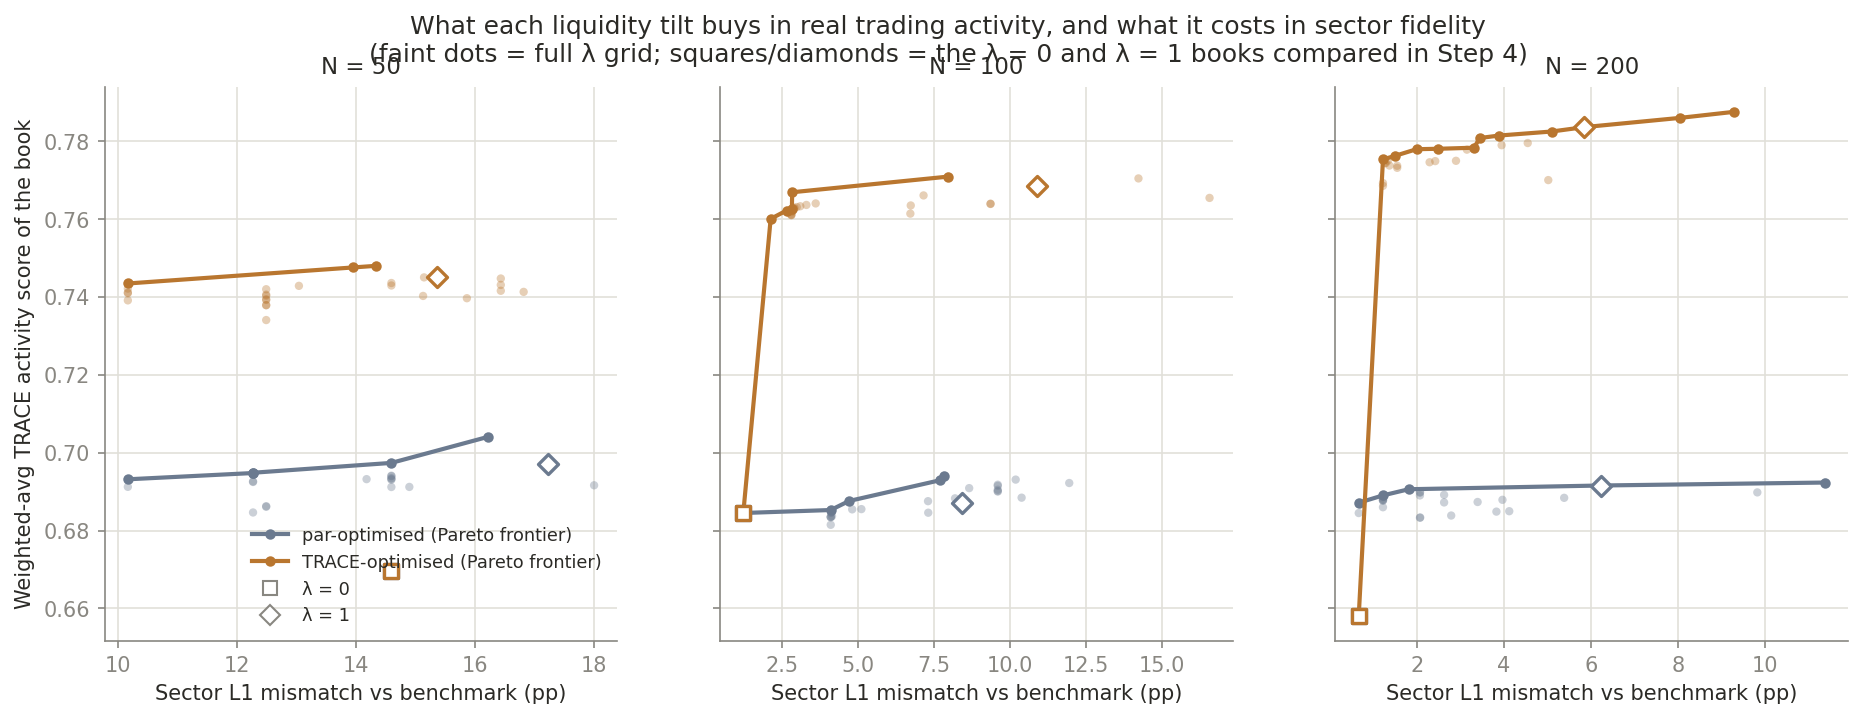
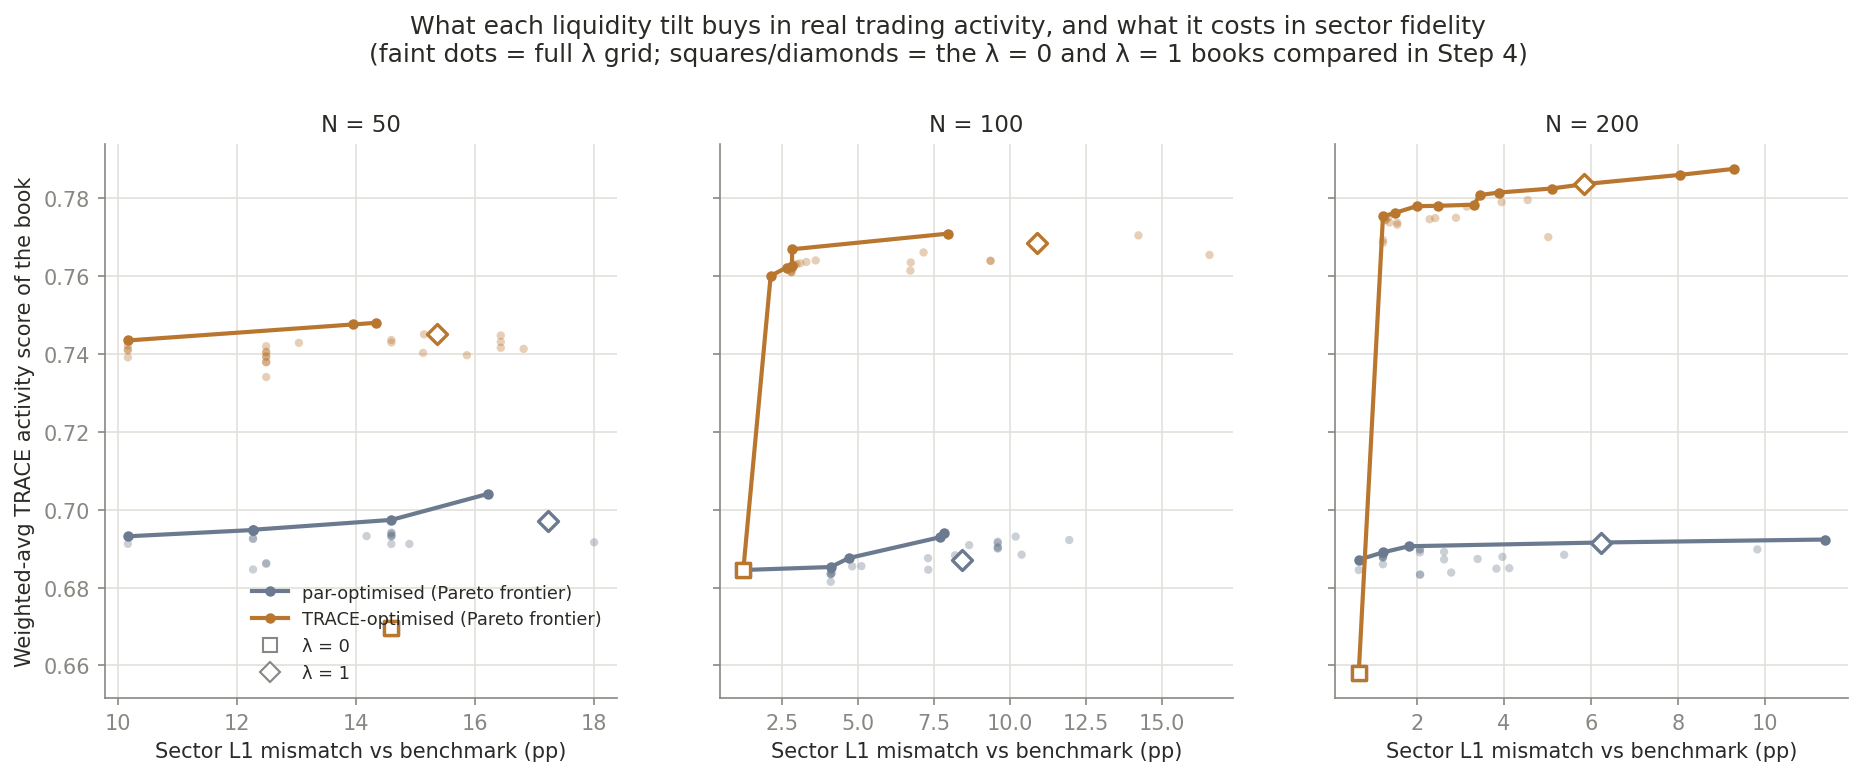
docs: Phase 2 results (TRACE score, Step 7 cross-evaluation)

diff --git a/scripts/07_score_comparison.py b/scripts/07_score_comparison.py
@@ -187,7 +187,7 @@ def main():
     axes[0].legend(handles, labels, loc='lower right', frameon=False, fontsize=8.5)
     fig.suptitle('What each liquidity tilt buys in real trading activity, and what it costs in sector fidelity\n'
                  '(faint dots = full λ grid; squares/diamonds = the λ = 0 and λ = 1 books compared in Step 4)',
-                 fontsize=12)
+                 fontsize=12, y=1.06)
     fig.savefig(os.path.join(charts, 'chart1_frontier_par_vs_trace.png'), dpi=150, bbox_inches='tight')
     plt.close(fig)
 

diff --git a/docs/superpowers/specs/2026-09-17-trace-liquidity-score-phase2-design.md b/docs/superpowers/specs/2026-09-17-trace-liquidity-score-phase2-design.md
@@ -99,3 +99,30 @@ available tradability"; otherwise "mixed", reported per N.
 
 Changing the optimiser, the λ grid, N=25, or the rating proxy. Pulling amount outstanding.
 Any re-run of Step 2 (no liquidity term there).
+
+## 7. Result (2026-09-17)
+
+Score construction on the real universe: 2,604 `trace_full_window`, 139 `trace_scaled`,
+392 `imputed_sector_maturity`, 4 `imputed_sector`, 4 `imputed_universe`; imputed bonds carry
+15.9% of benchmark weight. Spearman rank correlation between the par and TRACE scores across
+the 3,143 bonds: 0.28. Scaled bonds have a median raw count ~3× the full-window median (new
+issues trade heavily in their first weeks), a known upward bias for those 139 bonds.
+
+Cross-evaluation at λ = 0 → λ = 1 (`output/step7/step7_headline.csv`):
+
+| N | book | TRACE-score gain | par-score gain | sector L1 cost (pp) | top-10 issuer cost (pp) | imputed weight at λ=1 |
+|---|---|---|---|---|---|---|
+| 50 | par-optimised | +0.028 | +0.037 | +2.6 | 0.0 | 22% |
+| 50 | TRACE-optimised | +0.076 | +0.022 | +0.8 | 0.0 | 16% |
+| 100 | par-optimised | +0.003 | +0.067 | +7.2 | +3.6 | 24% |
+| 100 | TRACE-optimised | +0.084 | +0.033 | +9.7 | +3.6 | 8% |
+| 200 | par-optimised | +0.034 | +0.078 | +5.6 | +13.2 | 28% |
+| 200 | TRACE-optimised | +0.126 | +0.030 | +5.2 | +13.2 | 5% |
+
+Verdict under the §4 rule: **bought size, not tradability** — the TRACE tilt's activity gain
+exceeds the par tilt's by far more than 50% at every N, at a comparable cost. Caveat: the par
+tilt concentrates in large new issues whose TRACE score is an imputed peer median, so part of
+its flat activity reading is the imputation being neutral; that is itself a statement about
+what the par proxy rewards.
+
+Runtime: the TRACE sweep takes ~45 s; Steps 4–5 and 7 a few seconds each.
